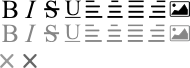
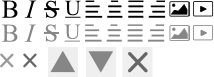
add block action images and styles

diff --git a/morrigan-jquery-editor.js b/morrigan-jquery-editor.js
@@ -7,6 +7,7 @@ $.widget( "morrigan.morrigan_editor", {
         doctype: '<!DOCTYPE html>',
         notSupportedMsg: 'Your browser is not supported.',
         iframeStyles: '/iframe.css',
+        mainPngPath: '/assets/morrigan_editor/',
         toolbox: [
             [
                 ['bold', 'italy', 'strike'], ['img']
@@ -423,9 +424,9 @@ $.widget( "morrigan.morrigan_editor", {
 
         this.showBlockManager = function (block) {
             this.current_block = block;
-            $(block).append('<div class="mrge-content-block-top mrge-content-block-move-action mrge-temp-support-element" contenteditable="false"></div>');
-            $(block).append('<div class="mrge-content-block-bottom mrge-content-block-move-action mrge-temp-support-element" contenteditable="false"></div>');
-            $(block).append('<div class="mrge-content-block-close mrge-temp-support-element" contenteditable="false"></div>');
+            $(block).append('<div class="mrge-content-block-top mrge-content-block-move-action mrge-temp-support-element" contenteditable="false" style="background-image: url(' + editor.options.mainPngPath + 'main.png)"></div>');
+            $(block).append('<div class="mrge-content-block-bottom mrge-content-block-move-action mrge-temp-support-element" contenteditable="false" style="background-image: url(' + editor.options.mainPngPath + 'main.png)"></div>');
+            $(block).append('<div class="mrge-content-block-close mrge-temp-support-element" contenteditable="false" style="background-image: url(' + editor.options.mainPngPath + 'main.png)"></div>');
         };
 
         this._moveUp = function () {

diff --git a/css/iframe.css b/css/iframe.css
@@ -33,13 +33,12 @@ body.mrge-iframe-body {
 }
 
 .mrge-content-block-container {
-    /*position: absolute;*/
     display: none;
 }
 
 .mrge-content-block-move-action {
-    height: 40px;
-    width: 40px;
+    height: 30px;
+    width: 30px;
     background-color: red;
     position: absolute;
     cursor: pointer;
@@ -49,20 +48,23 @@ body.mrge-iframe-body {
     top:0;
     left: 50%;
     margin-left: -20px;
+    background: url(/assets/morrigan_editor/main.png) no-repeat no-repeat -48px -47px;
 }
 
 .mrge-content-block-bottom {
     bottom:0;
     left: 50%;
     margin-left: -20px;
+    background: url(/assets/morrigan_editor/main.png) no-repeat no-repeat -86px -47px;
 }
 
 .mrge-content-block-close {
     top:0;
     right: 0;
     background-color: green;
-    height: 40px;
-    width: 40px;
+    height: 30px;
+    width: 30px;
     position: absolute;
     cursor: pointer;
+    background: url(/assets/morrigan_editor/main.png) no-repeat no-repeat -123px -47px;
 }
